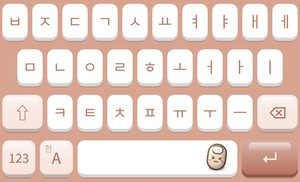
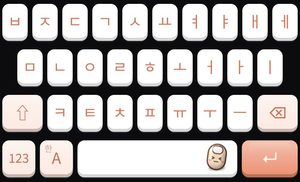
2026.11.12-6 블랙 & 화이트 로즈, 로즈 골드 밝게
Claude-Session: https://claude.ai/code/session_01GvSCgEXELCVfxACkb9NKF6

diff --git a/Shared/KBTheme.swift b/Shared/KBTheme.swift
@@ -65,13 +65,13 @@ struct KBTheme {
         KBTheme(id: "rt_rose", name: "블랙 & 로즈 골드",
                 bg: c(14, 12, 14), key: c(42, 38, 40), special: c(28, 25, 27),
                 pressKey: c(60, 55, 57), pressSpecial: c(46, 42, 44),
-                text: c(226, 176, 156), specialText: c(226, 176, 156),
+                text: c(246, 172, 142), specialText: c(246, 172, 142),
                 depth: 4, radius: 10, short: "로즈 골드"),
-        KBTheme(id: "rosegold", name: "로즈 골드 & 화이트",
-                bg: c(216, 164, 144), key: .white, special: c(248, 228, 220),
-                pressKey: c(244, 236, 232), pressSpecial: c(236, 210, 200),
-                text: c(190, 120, 98), specialText: c(176, 108, 88),
-                accent: c(184, 116, 94), depth: 4, radius: 10, short: "로즈 화이트"),
+        KBTheme(id: "rosegold", name: "블랙 & 화이트 로즈",
+                bg: c(12, 11, 13), key: .white, special: c(252, 234, 226),
+                pressKey: c(240, 234, 232), pressSpecial: c(240, 214, 202),
+                text: c(214, 120, 94), specialText: c(206, 110, 86),
+                accent: c(236, 146, 116), depth: 4, radius: 10, short: "화이트 로즈"),
         KBTheme(id: "rt_mono", name: "블랙",
                 bg: c(30, 30, 34), key: c(70, 70, 76), special: c(50, 50, 55),
                 pressKey: c(92, 92, 98), pressSpecial: c(70, 70, 76),

diff --git a/App/FingerErrorApp.swift b/App/FingerErrorApp.swift
@@ -96,7 +96,7 @@ struct ContentView: View {
                 }
             }
             .safeAreaInset(edge: .bottom) {
-                Text("버전 2026.11.12-5 (레드 블루 그라데이션) · 100개마다 리포트 · 한/A 영어 · 테마별 팻핑이 · 기념일").font(.caption2).foregroundStyle(.secondary).padding(4)
+                Text("버전 2026.11.12-6 (화이트 로즈 · 빛나는 로즈 골드) · 100개마다 리포트 · 한/A 영어 · 테마별 팻핑이 · 기념일").font(.caption2).foregroundStyle(.secondary).padding(4)
             }
             .navigationTitle("핑거에러")
             // 3D 젤리: 크림 배경 + 복숭아 포인트
